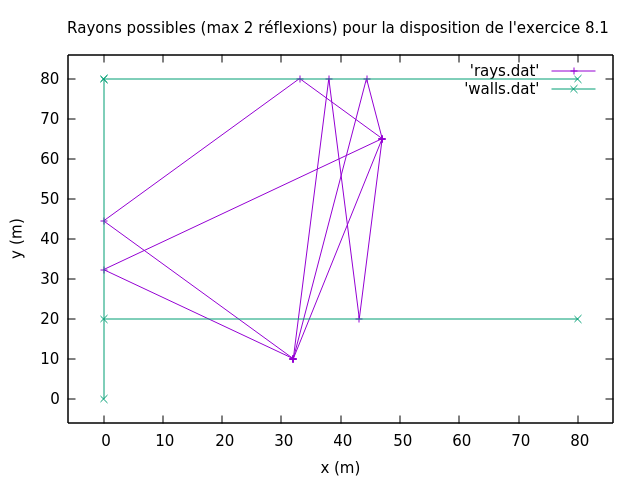
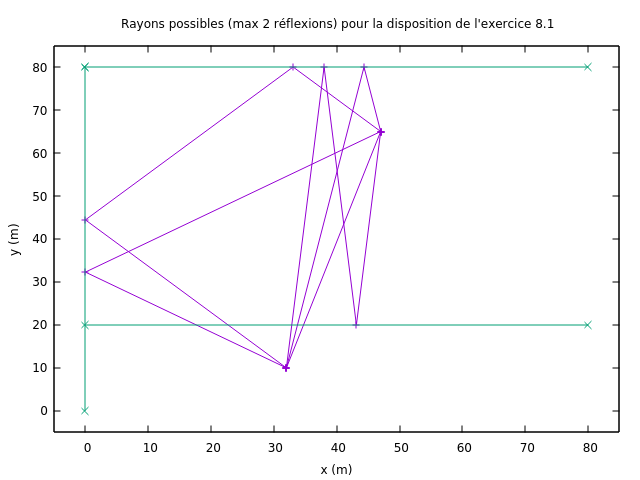
Version finale du code

diff --git a/main.cpp b/main.cpp
@@ -18,19 +18,20 @@ int main() {
 
     // paramètres d'exécution du programme
 
-    const int compute_power = 0; // 1 pour le processus sur toute la zone de la pièce, 0 pour le tracé des rayons
+    const int compute_power = 1; // 1 pour le processus sur toute la zone de la pièce, 0 pour le tracé des rayons
     const int recursion_depth = 2; // nombre de fois qu'on effectue la récursion
 
     //double frequency = 2.4e9; // fréquence de la porteuse en Hz
 
 
+    //std::vector<double> t; // coordonnées de l'émetteur
     // paramètres de la pièce pour l'exo 8.1
     //std::vector<double> t(2); t[0] = 32 ; t[1] = 10; // coordonnées de l'émetteur
-    std::vector<double> r(2); r[0] = 47; r[1] = 65; // coordonnées du récepteur
+    //std::vector<double> r(2); r[0] = 47; r[1] = 65; // coordonnées du récepteur
+    // coordonnées pour la disposition carrée
+    //std::vector<double> t(2); t[0] = -3 ; t[1] = 5; // coordonnées de l'émetteur
+    std::vector<double> r(2); r[0] = 5; r[1] = 5; // coordonnées du récepteur 
     // coordonnées pour l'usine (à changer au besoin)
-
-    std::vector<double> t; // coordonnées de l'émetteur
-
     //std::vector<double> t(2); t[0] = -10; t[1] = 0.5; // coordonnées de l'émetteur
     //std::vector<double> r(2); r[0] = 5; r[1] = -5; // coordonnées du récepteur
     
@@ -39,22 +40,18 @@ int main() {
     std::vector<Ray> rays;    // vecteur qui contiendra l'ensemble des rayons
 
     // initialiser layout
-    //layout.emplace_back(0.0, 0.0, 10.0, 0.0, 2);
-    //layout.emplace_back(0.0, 0.0, 0.0, 10.0, 2);
-    //layout.emplace_back(0.0, 10.0, 10.0, 10.0, 2);
-    //layout.emplace_back(10.0, 0.0, 10.0, 10.0, 2);
     // disposition de l'exo 8.1
     //const Wall wall1(0.0, 0.0, 0.0, 80.0, 4); layout.push_back(wall1);
     //const Wall wall2(0.0, 20.0, 80.0, 20.0, 4); layout.push_back(wall2);
     //const Wall wall3(0.0, 80.0, 80.0, 80.0, 4); layout.push_back(wall3);
     // disposition à 4 murs
-    //const Wall wall1(0.0, 0.0, 0.0, 10.0, 2); layout.push_back(wall1); 
-    //const Wall wall2(0.0, 0.0, 10.0, 0.0, 2); layout.push_back(wall2);
-    //const Wall wall3(0.0, 10.0, 10.0, 10.0, 2); layout.push_back(wall3);
-    //const Wall wall4(10.0, 0.0, 10.0, 10.0, 2); layout.push_back(wall4);
+   // const Wall wall1(0.0, 0.0, 0.0, 10.0, 2); layout.push_back(wall1); 
+   // const Wall wall2(0.0, 0.0, 10.0, 0.0, 2); layout.push_back(wall2);
+   // const Wall wall3(0.0, 10.0, 10.0, 10.0, 2); layout.push_back(wall3);
+   // const Wall wall4(10.0, 0.0, 10.0, 10.0, 2); layout.push_back(wall4);
     //const Wall wall5(4, 3, 6, 5, 2); layout.push_back(wall5);
     //const Wall wall6(4, 3, 6, 9, 2); layout.push_back(wall6);
-    //const Wall wall7(4, 3, 6, 1, 2); layout.push_back(wall7);
+    //const Wall wall7(4, 3, 6, 1, 2); layout.push_back(wall7);s
     // layout de l'usine
     // murs en brique
     const Wall wall1(0, 0, 100, 0, 1); layout.push_back(wall1);
@@ -84,15 +81,12 @@ int main() {
     const Wall wall23(35, -30, 40, -35, 3); layout.push_back(wall23);
     const Wall wall24(50, -15, 55, -20, 3); layout.push_back(wall24);
     const Wall wall25(55, -30, 50, -35, 3); layout.push_back(wall25);
-
     // antennes
     // disposition de l'usine
-    Antenna antenna_1({-10, 0.5}, 3); antennas.push_back(antenna_1); // antenne émettrice
-    //Antenna antenna_2({85, -50}, 1); antennas.push_back(antenna_2); //TX1
-    //Antenna antenna_2({105, -40}, 2); antennas.push_back(antenna_2);
+    Antenna antenna_1({-10, -4.5}, 3); antennas.push_back(antenna_1); // antenne émettrice
+    Antenna antenna_2({76, -43}, 1); antennas.push_back(antenna_2); //TX1
     // disposition de l'exo 8.1
-    //Antenna antenna_8_1({32, 10}, 2); antennas.push_back(antenna_8_1); // antenne émettrice
-
+    //Antenna antenna_8_1({-4.5, 5}, 2); antennas.push_back(antenna_8_1); // antenne émettrice
 
 
     // int q = layout.size(); // nombre de murs
@@ -123,17 +117,15 @@ int main() {
 
         for (int q = 0; q < antennas.size(); q++) { // pour chaque antenne
 
-            t = antennas[q].get_position();
-
             for (int k = 1; k <= recursion_depth; k++) { // d'abord max de réflexions puis ... puis 1 interaction puis 0
-                compute_reflections(layout, WALL_PLACEHOLDER, t, r, k, rays); // WALL_PLACEHOLDER défini dans common.hpp
+                compute_reflections(layout, WALL_PLACEHOLDER, antennas[q].get_position(), r, k, rays); // WALL_PLACEHOLDER défini dans common.hpp
             }
 
-            Ray direct_ray(r); // créer le rayon direct (l'émetteur est rajouté en-dessous dans la boucle for)
-            rays.push_back(direct_ray); // rajouter le rayon direct
+            //Ray direct_ray(r); // créer le rayon direct (l'émetteur est rajouté en-dessous dans la boucle for)
+            //rays.push_back(direct_ray); // rajouter le rayon direct
 
             for (int i = 0; i < rays.size(); i++) { // pour chaque rayon (il ne reste que les rayons valides à la fin de compute_reflections)
-                rays[i].extend_path(t);             // rajouter l'émetteur à la liste des points du rayon
+                rays[i].extend_path(antennas[q].get_position());             // rajouter l'émetteur à la liste des points du rayon
                 rays[i].print_path_to_file(f_rays); // écrire le rayon dans le fichier
                 //rays[i].print_walls_hit();          // debug
                 find_transmissions(rays[i], layout); // trouver les transmissions
@@ -141,28 +133,31 @@ int main() {
                 add_Rcoefs(rays[i], layout); // ajouter les coefficients de réflexion
                 rays[i].print_path();               // debug
                 rays[i].print_loss_factors();       // debug
-                //printf("Power of ray %d is %e\n", i, rays[i].compute_power()); // debug
-                power += abs(rays[i].compute_field()) * abs(rays[i].compute_field());   // calculer la puissance reçue par le récepteur
+                rays[i].add_loss_factor(sqrt(antennas[q].compute_directivity(signed_acos(rays[i].get_last_segment(), {1, 0})))); // ajouter le gain de directivité
+                std::cout << "Field phasor due to ray " << i << " is : " << sqrt(60 * antennas[q].get_G_TX() * antennas[q].get_P_TX()) * rays[i].compute_field()  <<  " V/m" << std::endl;
+                power = abs(rays[i].compute_field()) * abs(rays[i].compute_field());   // calculer la puissance reçue par le récepteur 
+                power *= antennas[q].get_P_TX() * 60 * (CELERITY / FREQUENCY) * (CELERITY / FREQUENCY) / (M_PI * M_PI * 8 * 73);
+                power_tot += power;
+                std::cout << "Power due to ray " << i << " at the receptor is : " << 10 * log10(power* 1000) << " dBm" << std::endl;
             }
-
         }
         
         fclose(f_rays);
-        power *= G_TX * P_TX * 60 * 32 * (CELERITY / FREQUENCY) * (CELERITY / FREQUENCY) / (M_PI * M_PI * 8 * 720 * M_PI);
+        //power *= G_TX * P_TX * 60 * 32 * (CELERITY / FREQUENCY) * (CELERITY / FREQUENCY) / (M_PI * M_PI * 8 * 720 * M_PI);
         system("gnuplot -persist \"lines.gnu\""); // afficher les rayons
-        std::cout << "Power is " << 10 * log10(power* 1000) << " dBm" << std::endl;
+        std::cout << "Power is " << 10 * log10(power_tot * 1000) << " dBm" << std::endl;
     }
 
     // boucle pour l'entièreté de la grille, calculer la puissance
 
     if (compute_power == 1) {
 
-        const double h = 2; // nombre de pas par mètre
+        const double h = 5; // nombre de pas par mètre
         const double Lx = 100.0;
         const double Ly = 70.0;
 
         double power;
-        double power_tot = 0;
+        double power_tot;
         //double max_power = 0;
         //std::complex<double> field(0.0, 0.0);
         double field_modulus;
@@ -186,12 +181,12 @@ int main() {
                 
                     //int v = 0;
                     
+                    power_tot = 0; // réinitialiser power_tot
 
                     for (int q = 0; q < antennas.size(); q++) { // pour chaque antenne
 
                         int k = recursion_depth; // debug
                         
-                    
                         power = 0;
                         //field = 0.0;
                         for (int k = 1; k <= recursion_depth; k++) { // d'abord 1 réflexion puis 2 .. jusque recursion_depth
@@ -213,7 +208,7 @@ int main() {
                             find_transmissions(rays[l], layout); // trouver les transmissions
                             compute_distance(rays[l]); // calculer la distance parcourue par le rayon 
                             add_Rcoefs(rays[l], layout); // ajouter les coefficients de réflexion
-                            rays[l].add_loss_factor(antennas[q].compute_directivity(signed_acos(rays[l].get_last_segment(), {1, 0}))); // ajouter le gain de directivité
+                            rays[l].add_loss_factor(sqrt(antennas[q].compute_directivity(signed_acos(rays[l].get_last_segment(), {1, 0})))); // ajouter le gain de directivité LA RACINE EST CRUCIALE
                             //field += rays[l].compute_field(); // calculer le champ, METHODE NON MOYENNEE
                             field_modulus = abs(rays[l].compute_field()); // calculer le champ, METHODE MOYENNEE
                             power += field_modulus * field_modulus; // calculer la puissance, FORMULE DE MOYENNE 8.80 ET PAS 8.79
@@ -221,7 +216,8 @@ int main() {
                         //std::cout << "Point : (" << r[0] << ", " << r[1] << ") ; number of rays : " << rays.size() << std::endl; // debug
                         rays.clear(); // vider le vecteur de rayons pour la prochaine itération (sinon le vecteur devient énorme et le programme plante)
                         //power = real(field * conj(field)); // calculer la puissance
-                        power *= antennas[q].get_G_TX() * antennas[q].get_P_TX() * 60 * 32 * (CELERITY / FREQUENCY) * (CELERITY / FREQUENCY) / (M_PI * M_PI * 8 * 720 * M_PI); // rajouter les facteurs multiplicatifs, 720 pi /32 est R_a
+                        power *= antennas[q].get_P_TX() * 60 * (CELERITY / FREQUENCY) * (CELERITY / FREQUENCY) / (M_PI * M_PI * 8 * 73); // rajouter les facteurs multiplicatifs, 720 pi /32 est R_a
+                                // G_TX est déjà pris en compte dans la directivité ci-dessus, qui doit être prise en compte pour chaque rayon individuel et ne peut pas être factorisé comme P_TX
                         power_list.push_back(power); // ajouter la puissance à la liste des puissances reçues par le point
                         power_tot += power;
                         //std::cout << "Power antenne " << q + 1 << " is " << 10 * log10(power * 1000) << " dBm" << std::endl;
@@ -243,7 +239,6 @@ int main() {
                         fprintf(f_danger, "%f %f %f\n", r[0], r[1], 0.0 );
                     }
                     power_list.clear(); // retirer les différentes puissances reçues par le point
-                    power_tot = 0;
                     //max_power = 0;
                 }
             }

diff --git a/dotproduct.cpp b/dotproduct.cpp
@@ -15,15 +15,6 @@ double normalised_dotproduct(std::vector<double> u, std::vector<double> v) { // 
     return fabs(res);
 }
 
-// pompé de https://stackoverflow.com/questions/15311018/c-procedure-for-determining-whether-two-segments-intersect
-
-double CCW(std::vector<double> a, std::vector<double> b, std::vector<double> c) // test de position d'un point par rapport à un segment
-{ return (b[0]-a[0])*(c[1]-a[1]) - (b[1]-a[1])*(c[0]-a[0]); }
-
-int intersect(std::vector<double> a, std::vector<double> b, std::vector<double> c, std::vector<double> d) // test d'intersection entre deux segments
-// renvoie 1 si les segments [a,b] et [c,d] s'intersectent, 0 sinon
-{ return (CCW(a,b,c)*CCW(a,b,d)<0 && CCW(c,d,b)*CCW(c,d,a)<0); }
-
 double signed_acos(std::vector<double> u, std::vector<double> v) { // retourne l'angle signé entre 2 vecteurs
 
     double dot = u[0] * v[0] + u[1] * v[1];
@@ -38,3 +29,12 @@ double signed_acos(std::vector<double> u, std::vector<double> v) { // retourne l
     }*/
     return res;
 }
+
+// https://stackoverflow.com/questions/15311018/c-procedure-for-determining-whether-two-segments-intersect
+
+double CCW(std::vector<double> a, std::vector<double> b, std::vector<double> c) // test de position d'un point par rapport à un segment
+{ return (b[0]-a[0])*(c[1]-a[1]) - (b[1]-a[1])*(c[0]-a[0]); }
+
+int intersect(std::vector<double> a, std::vector<double> b, std::vector<double> c, std::vector<double> d) // test d'intersection entre deux segments
+// renvoie 1 si les segments [a,b] et [c,d] s'intersectent, 0 sinon
+{ return (CCW(a,b,c)*CCW(a,b,d)<0 && CCW(c,d,b)*CCW(c,d,a)<0); }

diff --git a/antenna.cpp b/antenna.cpp
@@ -1,4 +1,5 @@
 #include "antenna.hpp"
+#include "setup.hpp"
 
 Antenna::Antenna(std::vector<double> t, int type) {
     position = t;
@@ -7,10 +8,10 @@ Antenna::Antenna(std::vector<double> t, int type) {
         power = 0.1; // P_TX
     }
     else if (type == 2) {
-        power = 3.16; // P_TX
+        power = 3.16227766; // P_TX
     }
     else if (type == 3) {
-        power = 3.16; // P_TX
+        power = 3.16227766; // P_TX
     }
     
 }
@@ -26,7 +27,7 @@ std::complex<double> Antenna::compute_directivity(double angle){ // retourne le 
         res = pow(10.0, (g_max - 12 * (angle - delta) / phi_3dB * (angle - delta) / phi_3dB ) / 10.0);
     }
     else {
-        res = 1; // G_TX
+        res = 1.7; // G_TX ou 1.7 ????
     }
     return res;
 }

diff --git a/setup.hpp b/setup.hpp
@@ -1,8 +1,6 @@
 #define WALL_PLACEHOLDER 100
-#define FREQUENCY 868.3e6
+#define FREQUENCY 26e9
 #define OMEGA (2 * M_PI * FREQUENCY)
 #define CELERITY 299792458
-#define G_TX 1
-#define P_TX 3.16
 #define EPSILON_0 8.854187817e-12
 #define MU_0 1.2566370614e-6

diff --git a/distance.cpp b/distance.cpp
@@ -9,3 +9,8 @@ void compute_distance(Ray &ray) {
     }
     ray.add_loss_factor(exp(std::complex<double> (0, -distance * OMEGA / CELERITY))/distance);
 }
+
+
+
+
+// arbitrairement on place t pour augmenter la bande passante, alpha idem, 
